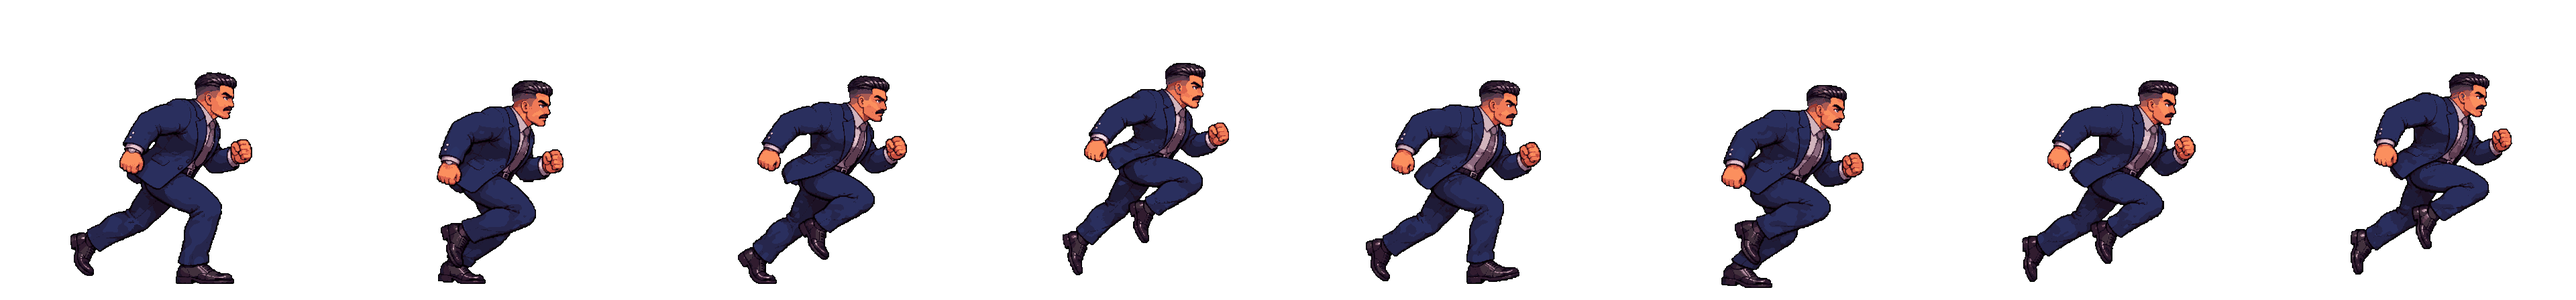
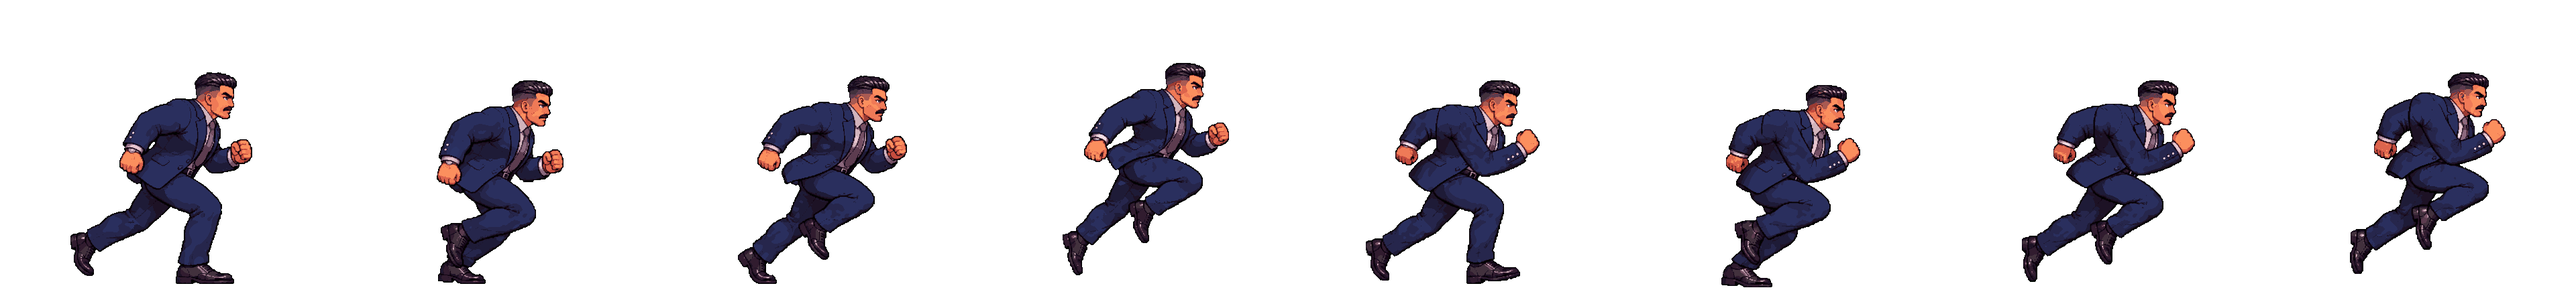
Navy run: arms now pump and alternate; knockdown: he is thrown up off the floor in an arc before slamming down

diff --git a/src/enemy.js b/src/enemy.js
@@ -1,8 +1,8 @@
 // Enemy: a fighter with a small brain. It lines up with Zee, flanks, chains combos, sidesteps her swings, punishes her recovery,
 // throws call-centre headsets, and (navy + sporty, the "heavies") grabs and throws her.
 // Art comes from assets/characters/<id>/ ; every enemy shares this one brain.
-import { CONFIG } from './config.js?v=202611280008';
-import { frameAt, drawAnim, drawShadow, LOOK } from './assets.js?v=202611280008';
+import { CONFIG } from './config.js?v=202611280145';
+import { frameAt, drawAnim, drawShadow, LOOK } from './assets.js?v=202611280145';
 
 const E = CONFIG.enemy;
 const rnd = (a, b) => a + Math.random() * (b - a);
@@ -32,6 +32,7 @@ const ACCEL = 560;                                                // px/s^2: ene
 
 // running: starts when it is further than RUN_FROM px from its spot by her, stops inside RUN_UNTIL; RUN_SPEED = x walking pace, RUN_STEP = x stride length
 const RUN_FROM = 230, RUN_UNTIL = 120, RUN_SPEED = 1.9, RUN_STEP = 1.7;
+const KD_LIFT = 0.2;                     // knockdown arc height, as a share of the character's height
 const CLAMP_DX = { navy: 52, sporty: 48 };
 const RELEASE = { navy: { dx: 92, z: 78 }, sporty: { dx: 58, z: 46 } };
 
@@ -359,6 +360,10 @@ export class Enemy {
     const ch = this.character, lying = this.state === 'down' || this.state === 'dead' || this.animName === 'get_up';
     const face = this.view === 'side' ? this.face : 1, lean = this.view === 'side' ? this.style.lean : 0;   // front / back sprites are never mirrored and do not lean
     drawShadow(ctx, ch, this.anim, this.frame, x, y, 0, face, lying, fade);          // the one shared character shadow
+    if (this.animName === 'knockdown' && this.anim.frames > 2) {      // knocked off his feet: the flying frames arc up off the floor, landing on the slam frame
+      const u = Math.min(1, this.t / this.anim.starts[2]);
+      y -= KD_LIFT * (ch.manifest.gameHeight || 140) * Math.sin(u * Math.PI);
+    }
     if (this.leanK > 0.01 && !lying) {                          // each enemy's walking style: forward lean, body roll and mid-step lift
       const S = this.style, k = this.leanK, roll = S.sway * Math.sin(this.stride * 2 * Math.PI) * k;
       const lift = S.bounce * Math.abs(Math.sin(this.stride * Math.PI)) * k;

diff --git a/src/main.js b/src/main.js
@@ -1,14 +1,14 @@
 // Game shell: loads Zee, runs the loop, draws the placeholder office + HUD, wires pause / touch UI.
-import { CONFIG } from './config.js?v=202611280008';
-import { loadCharacter, VERSION, LOOK, setLight } from './assets.js?v=202611280008';
-import { Input } from './input.js?v=202611280008';
-import { Zee } from './zee.js?v=202611280008';
-import { Game } from './game.js?v=202611280008';
-import { ENEMY_IDS } from './enemy.js?v=202611280008';
-import { drawHud as drawArcadeHud } from './hud.js?v=202611280008';
-import { Level, qualityDepartment } from './level.js?v=202611280008';
-import { Camera } from './camera.js?v=202611280008';
-import { unlock } from './sfx.js?v=202611280008';
+import { CONFIG } from './config.js?v=202611280145';
+import { loadCharacter, VERSION, LOOK, setLight } from './assets.js?v=202611280145';
+import { Input } from './input.js?v=202611280145';
+import { Zee } from './zee.js?v=202611280145';
+import { Game } from './game.js?v=202611280145';
+import { ENEMY_IDS } from './enemy.js?v=202611280145';
+import { drawHud as drawArcadeHud } from './hud.js?v=202611280145';
+import { Level, qualityDepartment } from './level.js?v=202611280145';
+import { Camera } from './camera.js?v=202611280145';
+import { unlock } from './sfx.js?v=202611280145';
 
 const { w: W, h: H } = CONFIG.view;
 const canvas = document.getElementById('game');

diff --git a/src/level.js b/src/level.js
@@ -20,8 +20,8 @@
 //   light: { rim, rimAlpha, rimPx, lightX, lightY, wash, washAlpha, feet } = how Zee and the enemies are lit in this room
 //   (rim / wash are [r,g,b]); the game eases from one room's light to the next (see setLight in assets.js).
 //   doorRight is the door to the NEXT room: while it is locked the player cannot pass it; no door (or unlocked) = open.
-import { CONFIG } from './config.js?v=202611280008';
-import { VERSION } from './assets.js?v=202611280008';
+import { CONFIG } from './config.js?v=202611280145';
+import { VERSION } from './assets.js?v=202611280145';
 
 const C = CONFIG.camera, F = CONFIG.floor;
 export const LAYER_H = 507;                       // layer height in pixels (the view shows 506.25)

diff --git a/src/game.js b/src/game.js
@@ -1,9 +1,9 @@
 // Game world: Zee + enemies, combat resolution, projectiles and all the "juice" (hit flash, sparks, shake, hit-stop, sound).
-import { CONFIG } from './config.js?v=202611280008';
-import { Enemy } from './enemy.js?v=202611280008';
-import { SOFT } from './zee.js?v=202611280008';
-import { sfx } from './sfx.js?v=202611280008';
-import { drawAnim } from './assets.js?v=202611280008';
+import { CONFIG } from './config.js?v=202611280145';
+import { Enemy } from './enemy.js?v=202611280145';
+import { SOFT } from './zee.js?v=202611280145';
+import { sfx } from './sfx.js?v=202611280145';
+import { drawAnim } from './assets.js?v=202611280145';
 
 const E = CONFIG.enemy;
 

diff --git a/src/hud.js b/src/hud.js
@@ -1,8 +1,8 @@
 // Arcade HUD (early-2000s style): angled panels with white outlines, glossy bars, bold italic type.
 // Built from separate pieces drawn in game units, so it scales with the canvas at any resolution.
 // Top-left: portrait + HP bar + SP meter. Bottom-left: KO counter. All values come from the live game state.
-import { CONFIG } from './config.js?v=202611280008';
-import { VERSION } from './assets.js?v=202611280008';
+import { CONFIG } from './config.js?v=202611280145';
+import { VERSION } from './assets.js?v=202611280145';
 
 const portrait = new Image();
 portrait.src = 'assets/ui/zee_portrait.png?v=' + VERSION;

diff --git a/src/zee.js b/src/zee.js
@@ -1,7 +1,7 @@
 // Zee: the player character. A small state machine driven by input actions.
 // Movement, combat timing, and animation selection live here; art comes from the manifest (assets.js).
-import { CONFIG } from './config.js?v=202611280008';
-import { frameAt, drawAnim, drawShadow, LOOK } from './assets.js?v=202611280008';
+import { CONFIG } from './config.js?v=202611280145';
+import { frameAt, drawAnim, drawShadow, LOOK } from './assets.js?v=202611280145';
 
 const C = CONFIG.zee;
 // Front and back sheets are drawn as seen by the camera, so they are never mirrored (her badge and hand stay on the correct side).

diff --git a/src/camera.js b/src/camera.js
@@ -1,7 +1,7 @@
 // The world camera. The world is drawn through a zoomed-out camera (CONFIG.camera.zoom, about 0.71): 900 x 506 world units
 // are visible and rendered into the 640 x 360 screen. The camera follows Zee horizontally (with a little look-ahead in the
 // direction she faces) and is clamped to the level. It never scrolls vertically: the world is exactly one screen tall.
-import { CONFIG } from './config.js?v=202611280008';
+import { CONFIG } from './config.js?v=202611280145';
 
 export class Camera {
   constructor() { this.x = 0; this.px = 0; this.gx = 0; this.look = 0; this.ready = false; }

diff --git a/src/assets.js b/src/assets.js
@@ -1,6 +1,6 @@
 // Loads a character's manifest + strips and turns them into ready-to-play animation objects.
 // To swap art, replace the PNG strips / manifest in assets/characters/<name>/ - no code changes needed.
-import { CONFIG } from './config.js?v=202611280008';
+import { CONFIG } from './config.js?v=202611280145';
 
 // Release stamp, taken from this module's own URL (?v=...): every release uses new URLs so browsers never serve stale files.
 export const VERSION = new URL(import.meta.url).searchParams.get('v') || 'dev';

diff --git a/index.html b/index.html
@@ -93,7 +93,7 @@
 <div id="rotate"><div><h2>Rotate your phone</h2><p style="color:var(--mute)">This game plays in landscape.</p></div></div>
 <div id="loading"><div><div class="lt">CALL TERMINATED</div><div class="ls">is loading...</div></div></div>
 
-<script type="module" src="src/main.js?v=202611280008"></script>
+<script type="module" src="src/main.js?v=202611280145"></script>
 </body>
 </html>
 

diff --git a/src/input.js b/src/input.js
@@ -1,6 +1,6 @@
 // Unified input: keyboard on PC/laptop, floating joystick + buttons on touch devices.
 // The game only reads: input.axis (x,y in -1..1), input.run, and input.consume() (one-shot actions).
-import { CONFIG } from './config.js?v=202611280008';
+import { CONFIG } from './config.js?v=202611280145';
 
 export class Input {
   constructor(root = document) {
